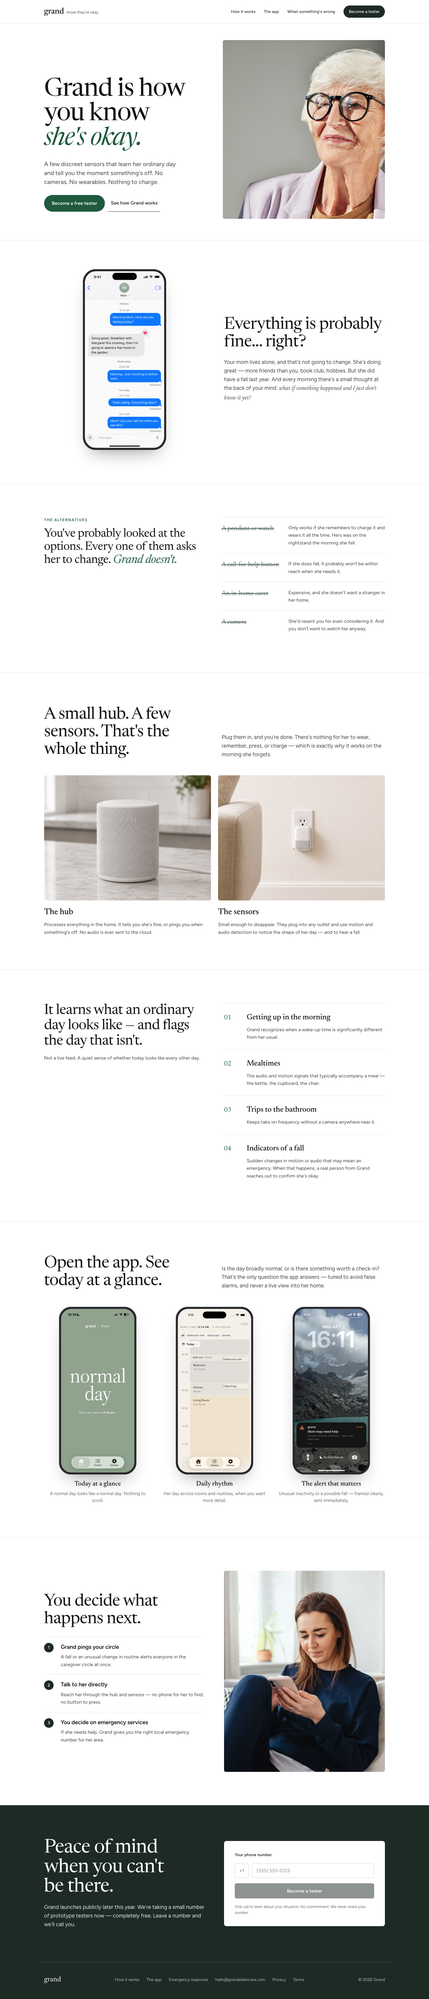
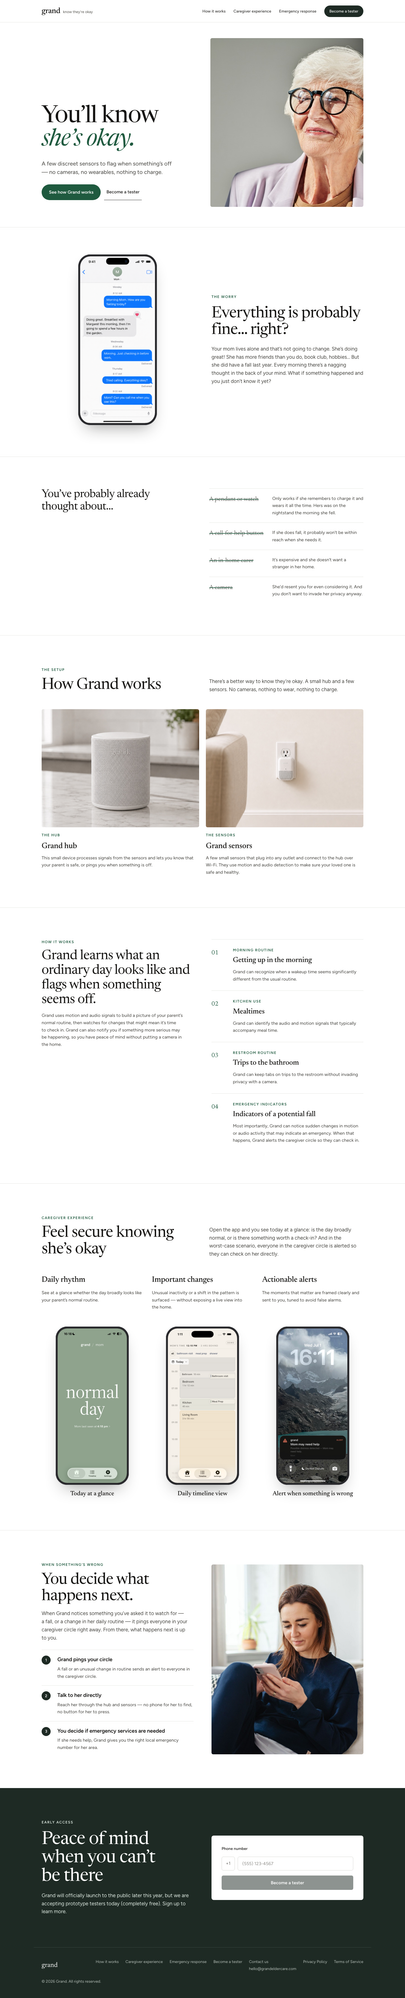
Restore original website copy within the redesigned layouts

diff --git a/index.html b/index.html
@@ -110,11 +110,11 @@
 
 <header class="site-header">
   <nav class="wrap" aria-label="Primary navigation">
-    <a href="#top" class="brand">grand<small>know they're okay</small></a>
+    <a href="#top" class="brand">grand<small>know they&rsquo;re okay</small></a>
     <div class="nav-links">
       <a href="#system">How it works</a>
-      <a href="#tracking">The app</a>
-      <a href="#response">When something's wrong</a>
+      <a href="#tracking">Caregiver experience</a>
+      <a href="#response">Emergency response</a>
       <a href="#waitlist" class="btn btn-sm">Become a tester</a>
     </div>
   </nav>
@@ -124,11 +124,11 @@
 <section id="top" class="hero">
   <div class="wrap">
     <div class="stack stack-28 hero-copy">
-      <h1 class="display">Grand is how you know <em class="accent">she's okay.</em></h1>
-      <p class="lede">A few discreet sensors that learn her ordinary day and tell you the moment something's off. No cameras. No wearables. Nothing to charge.</p>
+      <h1 class="display">You&rsquo;ll know <em class="accent">she&rsquo;s okay.</em></h1>
+      <p class="lede">A few discreet sensors to flag when something&rsquo;s off &mdash; no cameras, no wearables, nothing to charge.</p>
       <div class="hero-actions">
-        <a href="#waitlist" class="btn">Become a free tester</a>
-        <a href="#system" class="link-ul">See how Grand works</a>
+        <a href="#system" class="btn">See how Grand works</a>
+        <a href="#waitlist" class="link-ul">Become a tester</a>
       </div>
     </div>
     <div class="stack stack-12">
@@ -148,8 +148,9 @@
         </div>
       </div>
       <div class="stack stack-22">
-        <h2 class="h2">Everything is probably fine… right?</h2>
-        <p class="body-lg">Your mom lives alone, and that's not going to change. She's doing great — more friends than you, book club, hobbies. But she did have a fall last year. And every morning there's a small thought at the back of your mind: <em class="serif" style="font-size:20px">what if something happened and I just don't know it yet?</em></p>
+        <p class="eyebrow">The worry</p>
+        <h2 class="h2">Everything is probably fine... right?</h2>
+        <p class="body-lg">Your mom lives alone and that&rsquo;s not going to change. She&rsquo;s doing great! She has more friends than you do, book club, hobbies... But she did have a fall last year. Every morning there&rsquo;s a nagging thought in the back of your mind. What if something happened and you just don&rsquo;t know it yet?</p>
       </div>
     </div>
   </div>
@@ -159,8 +160,7 @@
   <div class="wrap">
     <div class="grid-2 wide tight" style="align-items:start">
       <div class="stack stack-16">
-        <p class="eyebrow">The alternatives</p>
-        <h3 class="h3">You've probably looked at the options. Every one of them asks her to change. <em class="accent">Grand doesn't.</em></h3>
+        <h2 class="h3">You&rsquo;ve probably already thought about&hellip;</h2>
       </div>
       <div class="rows">
         <div class="row row-alt">
@@ -169,15 +169,15 @@
         </div>
         <div class="row row-alt">
           <p class="name">A call-for-help button</p>
-          <p class="body">If she does fall, it probably won't be within reach when she needs it.</p>
+          <p class="body">If she does fall, it probably won&rsquo;t be within reach when she needs it.</p>
         </div>
         <div class="row row-alt">
           <p class="name">An in-home carer</p>
-          <p class="body">Expensive, and she doesn't want a stranger in her home.</p>
+          <p class="body">It&rsquo;s expensive and she doesn&rsquo;t want a stranger in her home.</p>
         </div>
         <div class="row row-alt">
           <p class="name">A camera</p>
-          <p class="body">She'd resent you for even considering it. And you don't want to watch her anyway.</p>
+          <p class="body">She&rsquo;d resent you for even considering it. And you don&rsquo;t want to invade her privacy anyway.</p>
         </div>
       </div>
     </div>
@@ -187,22 +187,22 @@
 <section id="system" class="section">
   <div class="wrap stack stack-56">
     <div class="grid-2 tight">
-      <h2 class="h2">A small hub. A few sensors. That's the whole thing.</h2>
-      <p class="body-lg">Plug them in, and you're done. There's nothing for her to wear, remember, press, or charge — which is exactly why it works on the morning she forgets.</p>
+      <div class="stack stack-16"><p class="eyebrow">The setup</p><h2 class="h2">How Grand works</h2></div>
+      <p class="body-lg">There&rsquo;s a better way to know they&rsquo;re okay. A small hub and a few sensors. No cameras, nothing to wear, nothing to charge.</p>
     </div>
     <div class="grid-2" style="gap:24px;align-items:start">
       <div class="stack stack-18">
         <img class="photo photo-4x3" src="assets/grand-hub.jpg" alt="The Grand hub, a small fabric-covered device, on a kitchen counter">
         <div class="stack stack-8">
-          <h3 class="h4">The hub</h3>
-          <p class="body">Processes everything in the home. It tells you she's fine, or pings you when something's off. No audio is ever sent to the cloud.</p>
+          <p class="eyebrow">The hub</p><h3 class="h4">Grand hub</h3>
+          <p class="body">This small device processes signals from the sensors and lets you know that your parent is safe, or pings you when something is off.</p>
         </div>
       </div>
       <div class="stack stack-18">
         <img class="photo photo-4x3" src="assets/grand-sensor.jpg" alt="A Grand sensor plugged into a wall outlet">
         <div class="stack stack-8">
-          <h3 class="h4">The sensors</h3>
-          <p class="body">Small enough to disappear. They plug into any outlet and use motion and audio detection to notice the shape of her day — and to hear a fall.</p>
+          <p class="eyebrow">The sensors</p><h3 class="h4">Grand sensors</h3>
+          <p class="body">A few small sensors that plug into any outlet and connect to the hub over Wi&#8209;Fi. They use motion and audio detection to make sure your loved one is safe and healthy.</p>
         </div>
       </div>
     </div>
@@ -213,36 +213,32 @@
   <div class="wrap">
     <div class="grid-2 wide" style="align-items:start">
       <div class="stack stack-16">
-        <h2 class="h2-sm">It learns what an ordinary day looks like — and flags the day that isn't.</h2>
-        <p class="body">Not a live feed. A quiet sense of whether today looks like every other day.</p>
+        <p class="eyebrow">How it works</p><h2 class="h2-sm">Grand learns what an ordinary day looks like and flags when something seems off.</h2>
+        <p class="body">Grand uses motion and audio signals to build a picture of your parent&rsquo;s normal routine, then watches for changes that might mean it&rsquo;s time to check in. Grand can also notify you if something more serious may be happening, so you have peace of mind without putting a camera in the home.</p>
       </div>
       <div class="rows">
         <div class="row row-routine">
           <span class="num">01</span>
           <div class="stack stack-8">
-            <h3>Getting up in the morning</h3>
-            <p class="body">Grand recognizes when a wake-up time is significantly different from her usual.</p>
+            <p class="eyebrow">Morning routine</p><h3>Getting up in the morning</h3><p class="body">Grand can recognize when a wakeup time seems significantly different from the usual routine.</p>
           </div>
         </div>
         <div class="row row-routine">
           <span class="num">02</span>
           <div class="stack stack-8">
-            <h3>Mealtimes</h3>
-            <p class="body">The audio and motion signals that typically accompany a meal — the kettle, the cupboard, the chair.</p>
+            <p class="eyebrow">Kitchen use</p><h3>Mealtimes</h3><p class="body">Grand can identify the audio and motion signals that typically accompany meal time.</p>
           </div>
         </div>
         <div class="row row-routine">
           <span class="num">03</span>
           <div class="stack stack-8">
-            <h3>Trips to the bathroom</h3>
-            <p class="body">Keeps tabs on frequency without a camera anywhere near it.</p>
+            <p class="eyebrow">Restroom routine</p><h3>Trips to the bathroom</h3><p class="body">Grand can keep tabs on trips to the restroom without invading privacy with a camera.</p>
           </div>
         </div>
         <div class="row row-routine">
           <span class="num">04</span>
           <div class="stack stack-8">
-            <h3>Indicators of a fall</h3>
-            <p class="body">Sudden changes in motion or audio that may mean an emergency. When that happens, a real person from Grand reaches out to confirm she's okay.</p>
+            <p class="eyebrow">Emergency indicators</p><h3>Indicators of a potential fall</h3><p class="body">Most importantly, Grand can notice sudden changes in motion or audio activity that may indicate an emergency. When that happens, Grand alerts the caregiver circle so they can check in.</p>
           </div>
         </div>
       </div>
@@ -253,9 +249,10 @@
 <section id="tracking" class="section">
   <div class="wrap stack stack-56">
     <div class="grid-2 tight">
-      <h2 class="h2">Open the app. See today at a glance.</h2>
-      <p class="body-lg">Is the day broadly normal, or is there something worth a check-in? That's the only question the app answers — tuned to avoid false alarms, and never a live view into her home.</p>
+      <div class="stack stack-16"><p class="eyebrow">Caregiver experience</p><h2 class="h2">Feel secure knowing she&rsquo;s okay</h2></div>
+      <p class="body-lg">Open the app and you see today at a glance: is the day broadly normal, or is there something worth a check&#8209;in? And in the worst&#8209;case scenario, everyone in the caregiver circle is alerted so they can check on her directly.</p>
     </div>
+    <div class="tracking-features"><div class="stack stack-12"><h3 class="h4">Daily rhythm</h3><p class="body">See at a glance whether the day broadly looks like your parent&rsquo;s normal routine.</p></div><div class="stack stack-12"><h3 class="h4">Important changes</h3><p class="body">Unusual inactivity or a shift in the pattern is surfaced &mdash; without exposing a live view into the home.</p></div><div class="stack stack-12"><h3 class="h4">Actionable alerts</h3><p class="body">The moments that matter are framed clearly and sent to you, tuned to avoid false alarms.</p></div></div>
     <div class="screens">
       <figure>
         <div class="phone">
@@ -263,7 +260,7 @@
             <img src="assets/grand-ios-normal-day.png" srcset="assets/grand-ios-normal-day-mobile.png 240w, assets/grand-ios-normal-day-mobile-2x.png 560w, assets/grand-ios-normal-day.png 1179w" sizes="260px" loading="lazy" decoding="async" alt="Grand home screen showing a normal day for Mom">
           </div>
         </div>
-        <figcaption><b>Today at a glance</b><span>A normal day looks like a normal day. Nothing to scroll.</span></figcaption>
+        <figcaption><b>Today at a glance</b></figcaption>
       </figure>
       <figure>
         <div class="phone">
@@ -271,7 +268,7 @@
             <img src="assets/grand-ios-timeline.png" srcset="assets/grand-ios-timeline-mobile.png 240w, assets/grand-ios-timeline-mobile-2x.png 560w, assets/grand-ios-timeline.png 1206w" sizes="260px" loading="lazy" decoding="async" alt="Grand timeline of Mom's activity across rooms">
           </div>
         </div>
-        <figcaption><b>Daily rhythm</b><span>Her day across rooms and routines, when you want more detail.</span></figcaption>
+        <figcaption><b>Daily timeline view</b></figcaption>
       </figure>
       <figure>
         <div class="phone">
@@ -279,7 +276,7 @@
             <img src="assets/grand-ios-alert-lockscreen-mobile-2x.jpg" loading="lazy" decoding="async" alt="iPhone lock screen with a Grand alert that Mom may need help">
           </div>
         </div>
-        <figcaption><b>The alert that matters</b><span>Unusual inactivity or a possible fall — framed clearly, sent immediately.</span></figcaption>
+        <figcaption><b>Alert when something is wrong</b></figcaption>
       </figure>
     </div>
   </div>
@@ -289,27 +286,24 @@
   <div class="wrap">
     <div class="grid-2">
       <div class="stack stack-28">
-        <h2 class="h2">You decide what happens next.</h2>
+        <div class="response-heading stack stack-16"><p class="eyebrow">When something&rsquo;s wrong</p><h2 class="h2">You decide what happens next.</h2><p class="body-lg">When Grand notices something you&rsquo;ve asked it to watch for &mdash; a fall, or a change in her daily routine &mdash; it pings everyone in your caregiver circle right away. From there, what happens next is up to you.</p></div>
         <div class="rows">
           <div class="row row-step">
             <span class="num">1</span>
             <div class="stack stack-8" style="gap:6px">
-              <h3>Grand pings your circle</h3>
-              <p class="body">A fall or an unusual change in routine alerts everyone in the caregiver circle at once.</p>
+              <h3>Grand pings your circle</h3><p class="body">A fall or an unusual change in routine sends an alert to everyone in the caregiver circle.</p>
             </div>
           </div>
           <div class="row row-step">
             <span class="num">2</span>
             <div class="stack stack-8" style="gap:6px">
-              <h3>Talk to her directly</h3>
-              <p class="body">Reach her through the hub and sensors — no phone for her to find, no button to press.</p>
+              <h3>Talk to her directly</h3><p class="body">Reach her through the hub and sensors &mdash; no phone for her to find, no button for her to press.</p>
             </div>
           </div>
           <div class="row row-step">
             <span class="num">3</span>
             <div class="stack stack-8" style="gap:6px">
-              <h3>You decide on emergency services</h3>
-              <p class="body">If she needs help, Grand gives you the right local emergency number for her area.</p>
+              <h3>You decide if emergency services are needed</h3><p class="body">If she needs help, Grand gives you the right local emergency number for her area.</p>
             </div>
           </div>
         </div>
@@ -322,26 +316,24 @@
 <section id="waitlist" class="waitlist">
   <div class="wrap grid-2" style="padding-top:var(--section-pad);padding-bottom:var(--section-pad)">
     <div class="stack stack-20">
-      <h2 class="h2">Peace of mind when you can't be there.</h2>
-      <p class="body-lg">Grand launches publicly later this year. We're taking a small number of prototype testers now — completely free. <span data-waitlist-copy="phone">Leave a number and we'll call you.</span><span data-waitlist-copy="email">Leave your email and we'll get in touch.</span></p>
+      <p class="eyebrow">Early access</p><h2 class="h2">Peace of mind when you can&rsquo;t be there</h2>
+      <p class="body-lg">Grand will officially launch to the public later this year, but we are accepting prototype testers today (completely free). Sign up to learn more.</p>
     </div>
     <form class="card" id="tester-form" data-waitlist-form data-waitlist-endpoint="https://script.google.com/macros/s/AKfycbznF16TQs1AShix3v0rp6DCZVs7P844Cp0KCfeCoApbPh2FF2sCC6M97vKxu_s2YmuY/exec" novalidate>
       <div class="stack stack-18" data-waitlist-field="phone">
-        <label for="phone">Your phone number</label>
+        <label for="phone">Phone number</label>
         <div class="field">
           <span class="prefix" aria-hidden="true">+1</span>
-          <input id="phone" name="phone" type="tel" autocomplete="tel-national" inputmode="tel" placeholder="(555) 555-0123" aria-describedby="waitlist-status" required>
+          <input id="phone" name="phone" type="tel" autocomplete="tel-national" inputmode="tel" placeholder="(555) 123-4567" aria-describedby="waitlist-status" required>
         </div>
         <button type="submit" class="btn" disabled>Become a tester</button>
-        <p class="fine">One call to learn about your situation. No commitment. We never share your number.</p>
       </div>
       <div class="stack stack-18" data-waitlist-field="email">
-        <label for="email">Your email address</label>
+        <label for="email">Email</label>
         <div class="field">
           <input id="email" name="email" type="email" autocomplete="email" inputmode="email" placeholder="you@example.com" aria-describedby="waitlist-status" required>
         </div>
         <button type="submit" class="btn" disabled>Become a tester</button>
-        <p class="fine">Get in touch to learn about testing Grand. No commitment. We never share your email.</p>
       </div>
       <p id="waitlist-status" class="form-status" data-waitlist-status role="status" aria-live="polite"></p>
       <noscript><p class="fine">Please enable JavaScript to sign up, or email <a href="mailto:hello@grandeldercare.com">hello@grandeldercare.com</a>.</p></noscript>
@@ -355,13 +347,14 @@
     <span class="logo">grand</span>
     <nav>
       <a href="#system">How it works</a>
-      <a href="#tracking">The app</a>
+      <a href="#tracking">Caregiver experience</a>
       <a href="#response">Emergency response</a>
-      <a href="mailto:hello@grandeldercare.com">hello@grandeldercare.com</a>
-      <a href="privacy.html">Privacy</a>
-      <a href="terms.html">Terms</a>
+      <a href="#waitlist">Become a tester</a>
+      <span class="footer-contact">Contact us <a href="mailto:hello@grandeldercare.com">hello@grandeldercare.com</a></span>
+      <a href="privacy.html">Privacy Policy</a>
+      <a href="terms.html">Terms of Service</a>
     </nav>
-    <span>© 2026 Grand</span>
+    <span>© 2026 Grand. All rights reserved.</span>
   </div>
 </footer>
 

diff --git a/privacy.html b/privacy.html
@@ -27,11 +27,11 @@
     <a class="skip-link" href="#top">Skip to content</a>
     <header class="site-header">
   <nav class="wrap" aria-label="Primary navigation">
-    <a href="index.html" class="brand">grand<small>know they're okay</small></a>
+    <a href="index.html" class="brand">grand<small>know they&rsquo;re okay</small></a>
     <div class="nav-links">
       <a href="index.html#system">How it works</a>
-      <a href="index.html#tracking">The app</a>
-      <a href="index.html#response">When something's wrong</a>
+      <a href="index.html#tracking">Caregiver experience</a>
+      <a href="index.html#response">Emergency response</a>
       <a href="index.html#waitlist" class="btn btn-sm">Become a tester</a>
     </div>
   </nav>
@@ -313,11 +313,11 @@
     <span class="logo">grand</span>
     <nav>
       <a href="index.html#system">How it works</a>
-      <a href="index.html#tracking">The app</a>
+      <a href="index.html#tracking">Caregiver experience</a>
       <a href="index.html#response">Emergency response</a>
       <a href="mailto:hello@grandeldercare.com">hello@grandeldercare.com</a>
-      <a href="privacy.html">Privacy</a>
-      <a href="terms.html">Terms</a>
+      <a href="privacy.html">Privacy Policy</a>
+      <a href="terms.html">Terms of Service</a>
     </nav>
     <span>© 2026 Grand</span>
   </div>

diff --git a/terms.html b/terms.html
@@ -27,11 +27,11 @@
     <a class="skip-link" href="#top">Skip to content</a>
     <header class="site-header">
   <nav class="wrap" aria-label="Primary navigation">
-    <a href="index.html" class="brand">grand<small>know they're okay</small></a>
+    <a href="index.html" class="brand">grand<small>know they&rsquo;re okay</small></a>
     <div class="nav-links">
       <a href="index.html#system">How it works</a>
-      <a href="index.html#tracking">The app</a>
-      <a href="index.html#response">When something's wrong</a>
+      <a href="index.html#tracking">Caregiver experience</a>
+      <a href="index.html#response">Emergency response</a>
       <a href="index.html#waitlist" class="btn btn-sm">Become a tester</a>
     </div>
   </nav>
@@ -208,11 +208,11 @@
     <span class="logo">grand</span>
     <nav>
       <a href="index.html#system">How it works</a>
-      <a href="index.html#tracking">The app</a>
+      <a href="index.html#tracking">Caregiver experience</a>
       <a href="index.html#response">Emergency response</a>
       <a href="mailto:hello@grandeldercare.com">hello@grandeldercare.com</a>
-      <a href="privacy.html">Privacy</a>
-      <a href="terms.html">Terms</a>
+      <a href="privacy.html">Privacy Policy</a>
+      <a href="terms.html">Terms of Service</a>
     </nav>
     <span>© 2026 Grand</span>
   </div>

diff --git a/welcome.html b/welcome.html
@@ -73,11 +73,11 @@
     <a class="skip-link" href="#top">Skip to content</a>
     <header class="site-header">
   <nav class="wrap" aria-label="Primary navigation">
-    <a href="index.html" class="brand">grand<small>know they're okay</small></a>
+    <a href="index.html" class="brand">grand<small>know they&rsquo;re okay</small></a>
     <div class="nav-links">
       <a href="index.html#system">How it works</a>
-      <a href="index.html#tracking">The app</a>
-      <a href="index.html#response">When something's wrong</a>
+      <a href="index.html#tracking">Caregiver experience</a>
+      <a href="index.html#response">Emergency response</a>
       <a href="index.html" class="btn btn-sm">Back to home</a>
     </div>
   </nav>
@@ -251,11 +251,11 @@
     <span class="logo">grand</span>
     <nav>
       <a href="index.html#system">How it works</a>
-      <a href="index.html#tracking">The app</a>
+      <a href="index.html#tracking">Caregiver experience</a>
       <a href="index.html#response">Emergency response</a>
       <a href="mailto:hello@grandeldercare.com">hello@grandeldercare.com</a>
-      <a href="privacy.html">Privacy</a>
-      <a href="terms.html">Terms</a>
+      <a href="privacy.html">Privacy Policy</a>
+      <a href="terms.html">Terms of Service</a>
     </nav>
     <span>© 2026 Grand</span>
   </div>

diff --git a/homepage.css b/homepage.css
@@ -191,3 +191,12 @@ a:focus-visible,button:focus-visible,input:focus-visible{outline:3px solid #b68b
  .site-footer nav{display:grid;grid-template-columns:1fr 1fr;gap:12px 16px}
 }
 @media(prefers-reduced-motion:reduce){html{scroll-behavior:auto}.btn{transition:none}}
+
+/* Original site copy within the editorial layout. */
+.tracking-features{display:grid;grid-template-columns:repeat(3,minmax(0,1fr));gap:32px}
+.waitlist .eyebrow{color:var(--band-soft)}
+.footer-contact{display:flex;flex-direction:column;gap:4px}
+@media(max-width:700px){
+ .tracking-features{grid-template-columns:1fr;padding:0 var(--gutter);gap:24px}
+ #response .grid-2>.stack>.response-heading{order:-1}
+}

diff --git a/README.md b/README.md
@@ -4,6 +4,8 @@ Static landing-page wireframe for Grand.
 
 ## Status
 
+- Restored the pre-redesign homepage copy from `4209c40` within the new editorial desktop/mobile design: original hero and CTAs, section labels, product and routine descriptions, caregiver features, screenshot captions, response copy, signup text, and footer wording. Signup behavior and the 45-second confirmation timeout are retained.
+
 - Restyled `welcome.html` with the shared homepage header, footer, Newsreader/Figtree typography, green form controls, and `welcome.css`. Mobile puts the questionnaire ahead of the supporting image. Both contact variants, validation feedback, and scheduling/waitlist completion states retain the existing behavior.
 
 - Fixed signup errors caused by the 10-second client timeout: a live QA retry confirmed the backend can take about 20 seconds and that the original signup had already saved. Signup and profile requests now wait up to 45 seconds for a confirmed JSON response; a timeout explains that confirmation is uncertain and signup retry preserves the submission ID to avoid duplicates.
